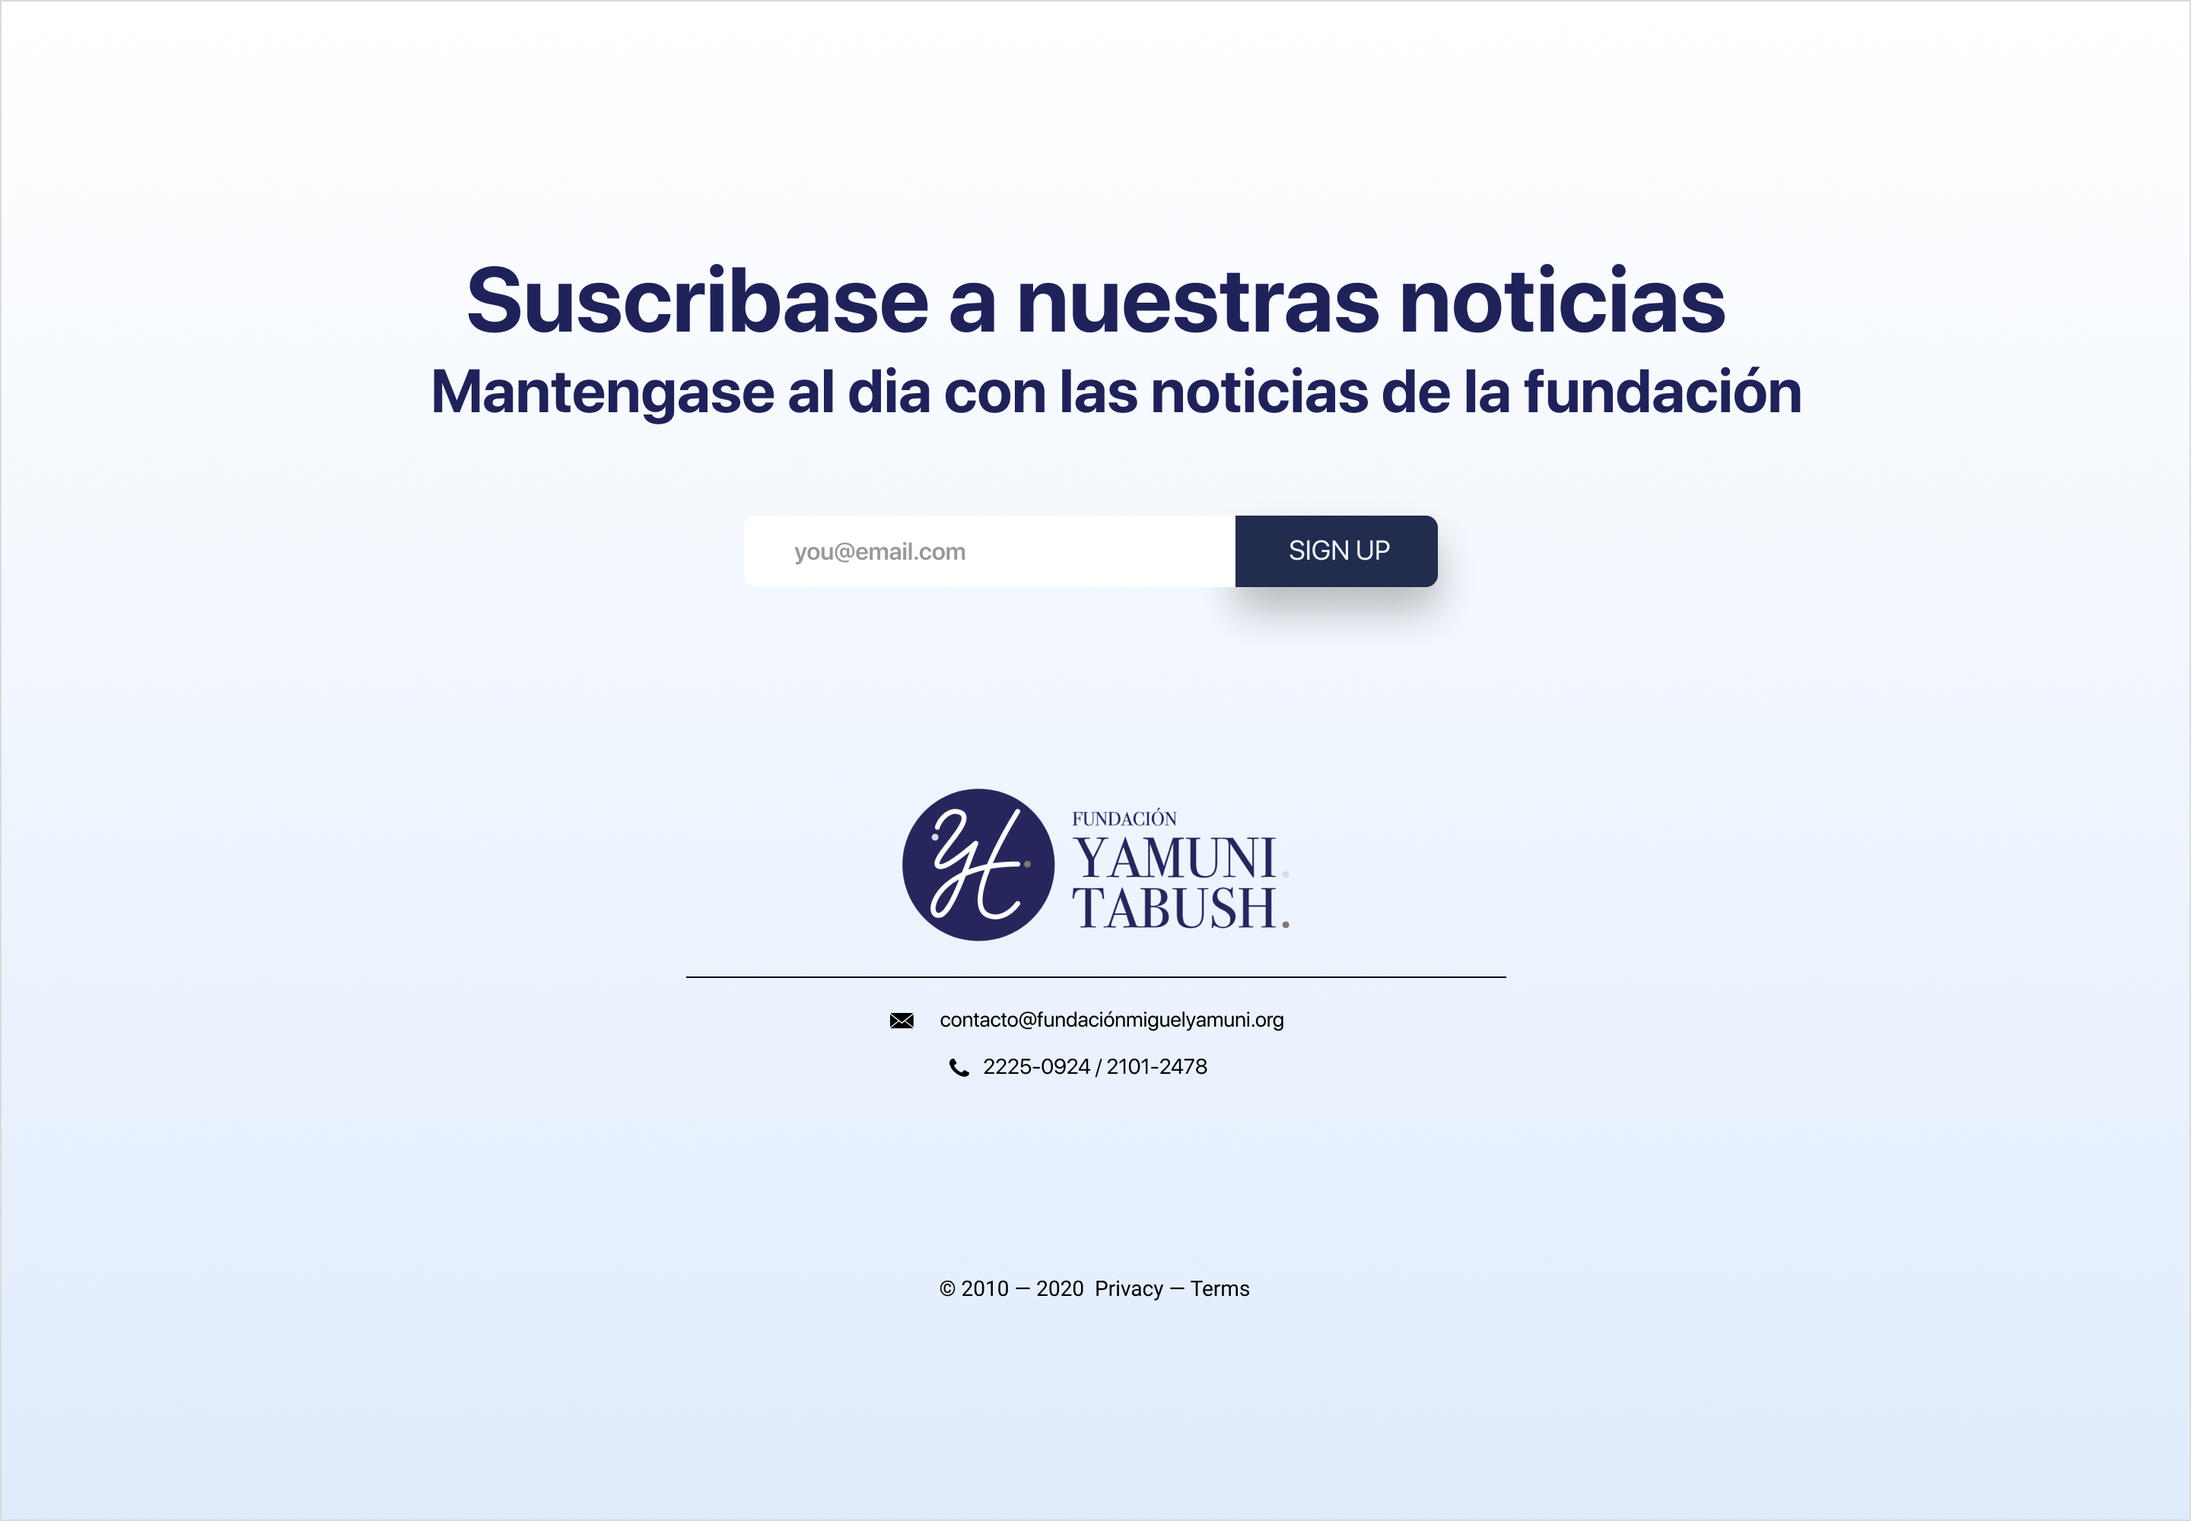
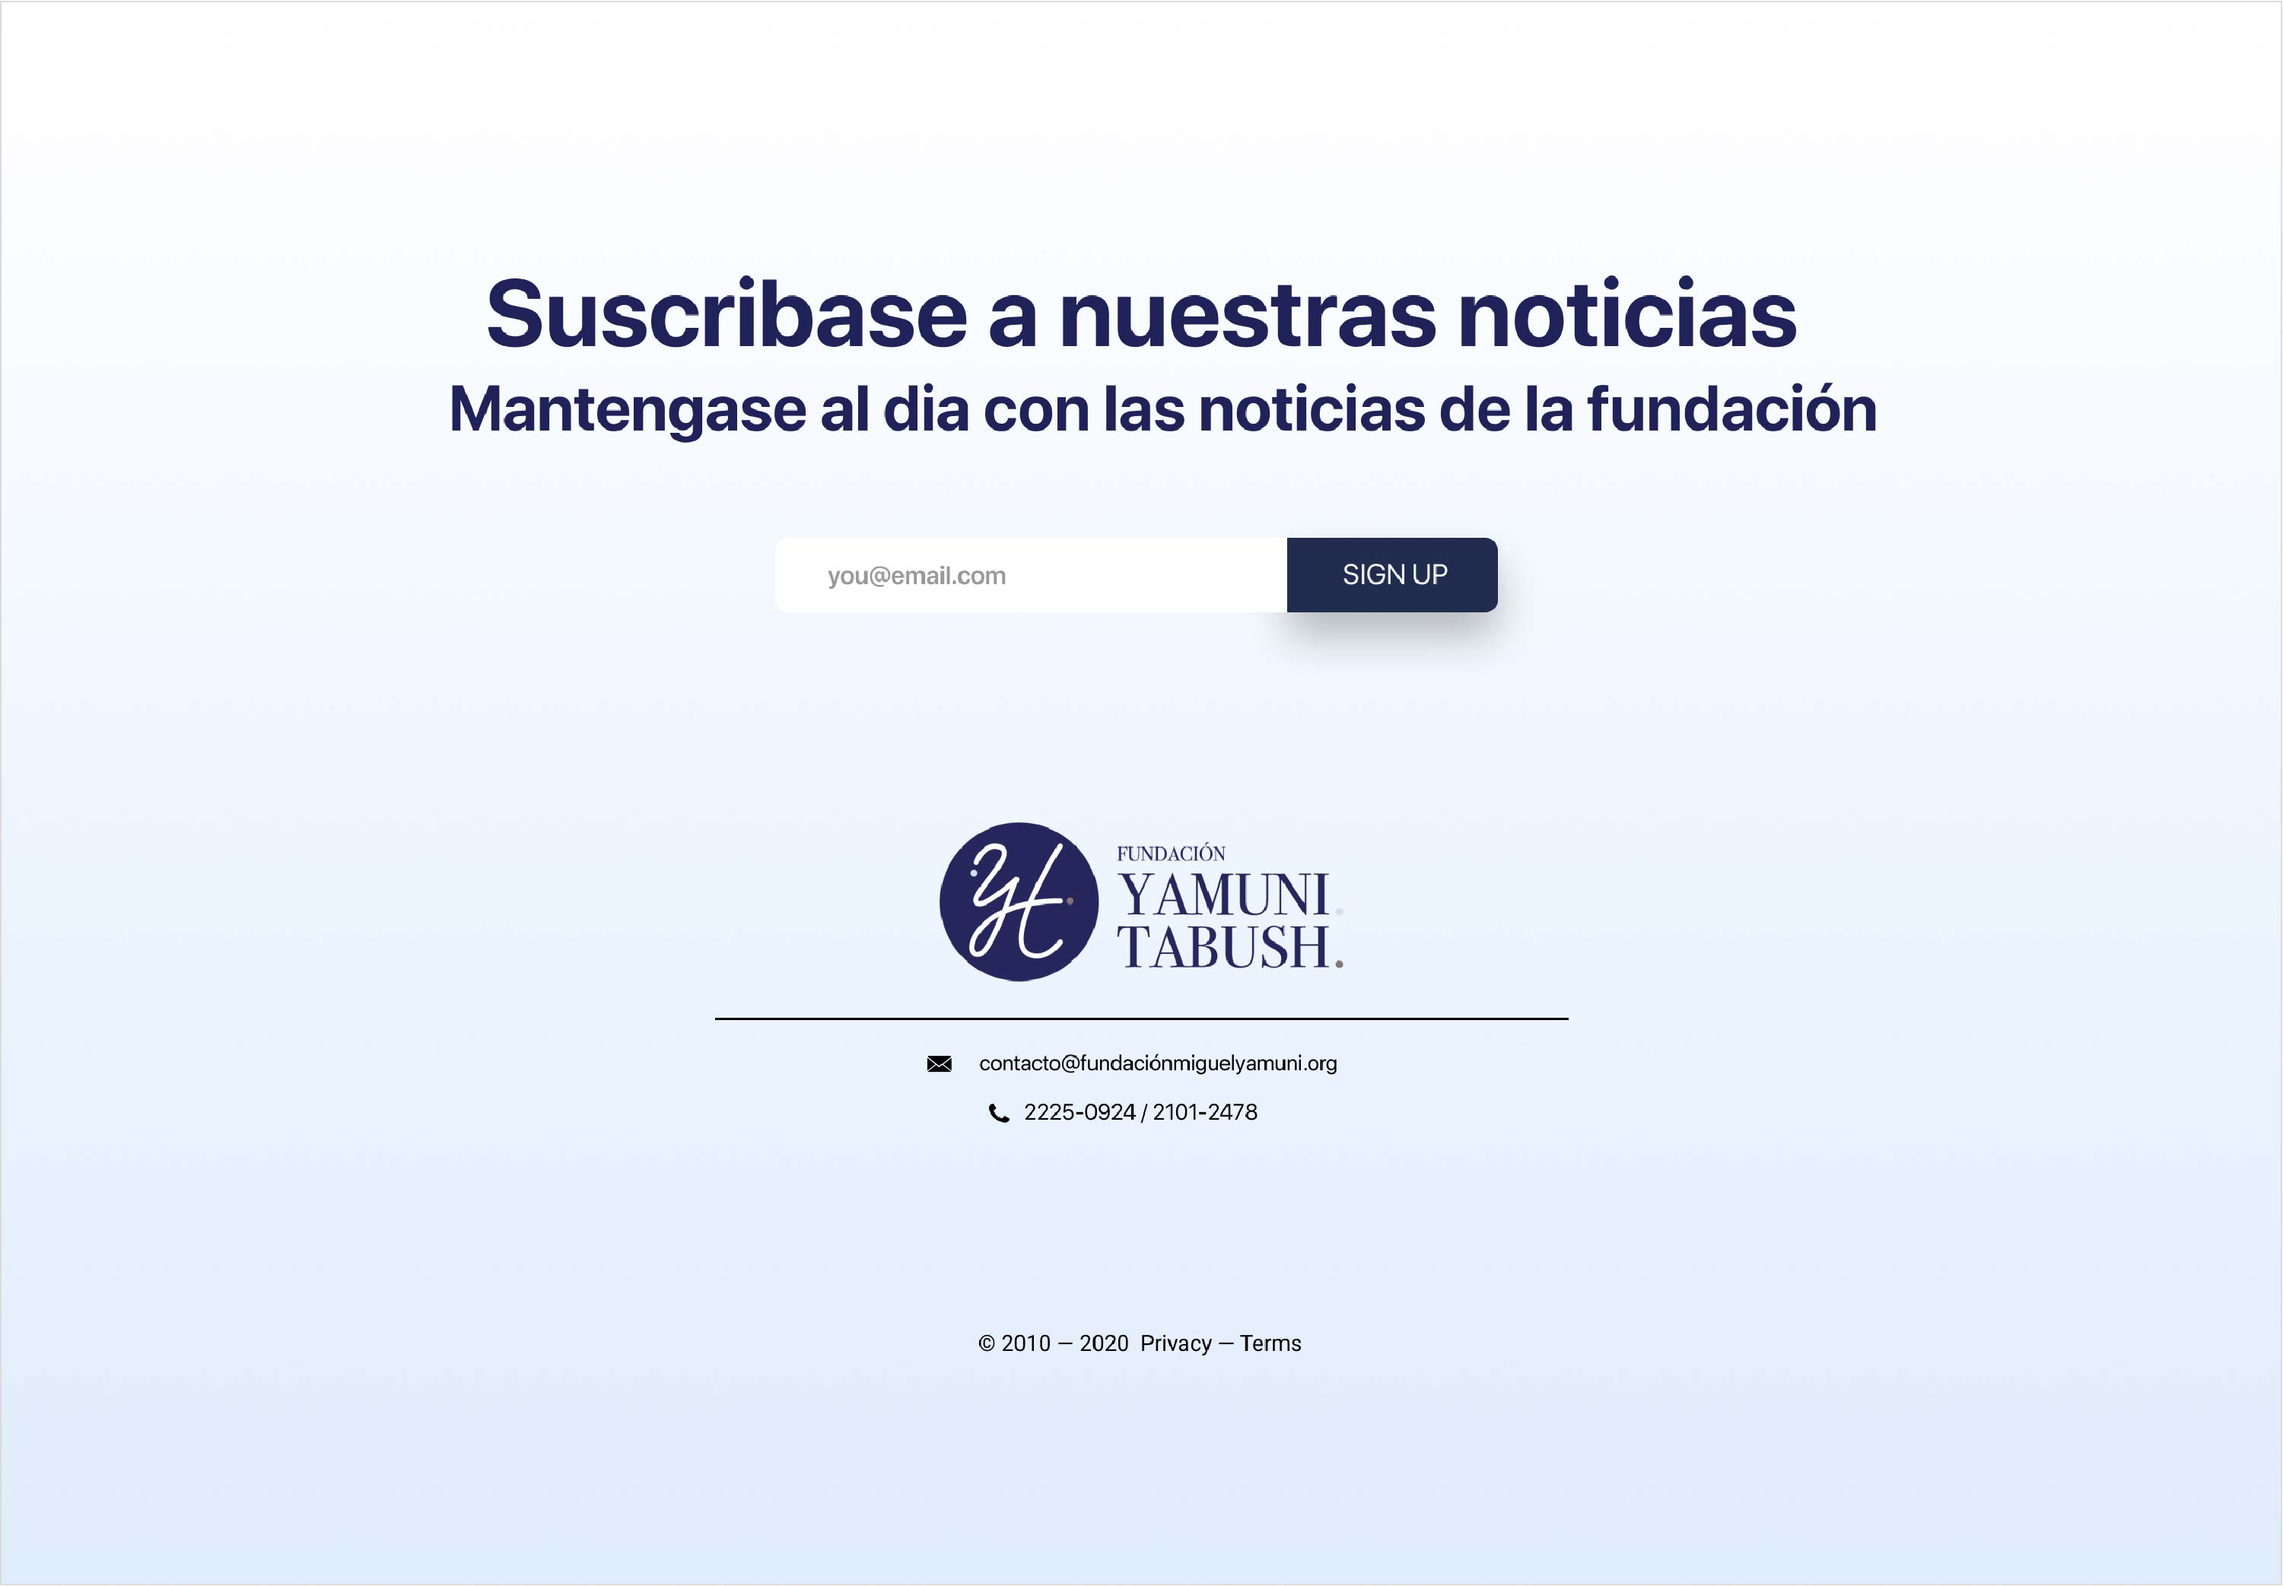
image resizing

diff --git a/src/components/Projects/Projects.js b/src/components/Projects/Projects.js
@@ -67,7 +67,7 @@ const Projects = () => {
           <Grid container spacing={4}>
             <Grid item xs={12} sm={6} md={4}>
                 <Card className={classes.card}>
-                    <Link href="/Unotown">
+                    <Link href="/unotown">
                         <CardMedia
                             className={classes.cardMedia}
                             image={Ulogo}
@@ -78,7 +78,7 @@ const Projects = () => {
             </Grid>
             <Grid item xs={12} sm={6} md={4}>
                 <Card className={classes.card}>
-                    <Link href="/Yamuni">
+                    <Link href="/yamuni">
                         <CardMedia
                             className={classes.cardMedia}
                             image={Ylogo}
@@ -89,7 +89,7 @@ const Projects = () => {
             </Grid>
             <Grid item xs={12} sm={6} md={4}>
                 <Card className={classes.card}>
-                    <Link href="/Kokkosaari">
+                    <Link href="/kokkosaari">
                         <CardMedia
                             className={classes.cardMedia}
                             image={Klogo}

diff --git a/src/components/Landing/Landing.js b/src/components/Landing/Landing.js
@@ -3,7 +3,7 @@ import React from "react";
 import GitHubIcon from '@material-ui/icons/GitHub';
 import LinkedInIcon from '@material-ui/icons/LinkedIn';
 import threeMachetes from '../../assets/images/3machetes.svg'
-import profile from '../../assets/images/me.jpg';
+import profile from '../../assets/images/me3.jpg';
 
 import CssBaseline from '@material-ui/core/CssBaseline'
 import Grid from '@material-ui/core/Grid'
